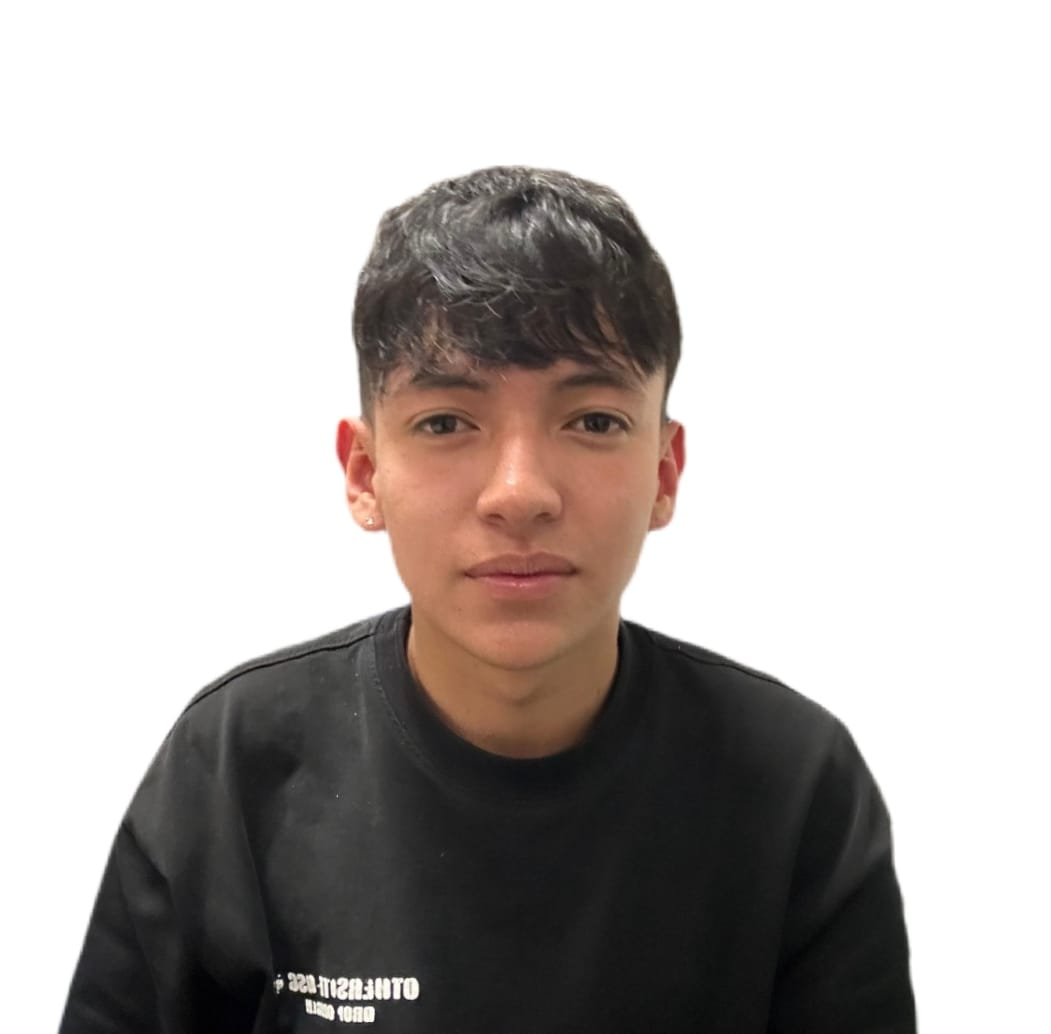
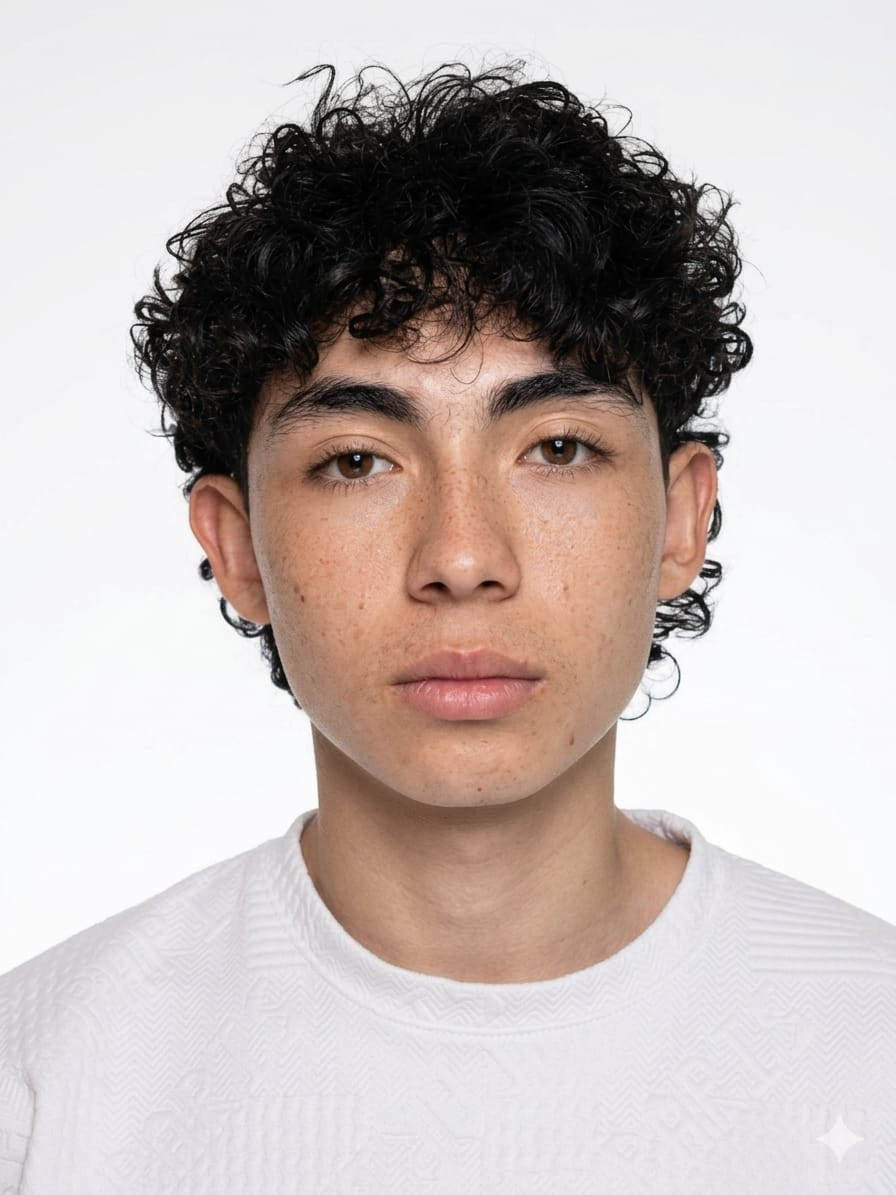
CV - Personal terminado Julian Morales Con Contenido interno cambiado incluyendo img

diff --git a/estudios.html b/estudios.html
@@ -3,14 +3,14 @@
 <head> 
   <meta charset="utf-8"> <!-- Configura la codificación para leer tildes y la letra Ñ -->
   <meta name="viewport" content="width=device-width, initial-scale=1.0"> <!-- Hace que la página sea adaptable a celulares y tablets -->
-  <title>Estudios - Juan Quintero</title> <!-- Texto que aparece en la pestaña superior del navegador -->
+  <title>Estudios - Julián Morales</title> <!-- Texto que aparece en la pestaña superior del navegador -->
   <link href="https://cdn.jsdelivr.net/npm/bootstrap@5.3.3/dist/css/bootstrap.min.css" rel="stylesheet"> <!-- Conecta los estilos modernos de Bootstrap -->
   <link href="https://cdn.jsdelivr.net/npm/bootstrap-icons@1.11.3/font/bootstrap-icons.min.css" rel="stylesheet"> <!-- Conecta la librería de íconos de Bootstrap -->
 </head> 
 <body> 
   <nav class="navbar navbar-expand-lg navbar-dark bg-dark sticky-top"> <!-- Creamos una barra de navegacion oscura fijada en la parte de arriba  -->
     <div class="container"> <!-- Container los usamo para centrar y aliniar los elemntos de nuestra barra -->
-      <a class="navbar-brand" href="index.html">Juan Quintero</a> <!-- nombre que lleva a la página de inicio -->
+      <a class="navbar-brand" href="index.html">Julián Morales</a> <!-- nombre que lleva a la página de inicio -->
       <button class="navbar-toggler" type="button" data-bs-toggle="collapse" data-bs-target="#navMenu"> <!-- Botón desplegable para celulares -->
         <span class="navbar-toggler-icon"></span> <!-- Icono de las tres rayitas del botón móvil -->
       </button> <!-- Cierra el botón del menú -->
@@ -42,16 +42,16 @@
           <p class="card-text mb-4">Formación técnica enfocada en el análisis, diseño, desarrollo e implementación de software bajo estándares de calidad y metodologías ágiles.</p> <!-- Descripción -->
           <hr class="my-3"> <!-- Línea divisoria sencilla entre estudios -->
           <!-- Administración de Empresas Logísticas -->
-          <h4 class="card-title text-primary">Técnico en Administración de Empresas Logísticas</h4> <!-- Título del programa técnico -->
+          <h4 class="card-title text-primary">Técnico en Sistemas Teleinformaticos</h4> <!-- Título del programa técnico -->
           <h6 class="card-subtitle mb-2 text-muted">Servicio Nacional de Aprendizaje (SENA)</h6> <!-- Institución -->
           <p class="text-muted small mb-1"><span class="text-success fw-bold">Finalizado (2025)</span></p> <!-- Estado -->
-          <p class="card-text mb-4">Formación técnica enfocada en la gestión de procesos logísticos, cadena de suministro y distribución eficiente.</p> <!-- Descripción -->
+          <p class="card-text mb-4">Formación técnica enfocada en el mantenimiento de sistemas Basicos Teleinformaticos.</p> <!-- Descripción -->
           <hr class="my-3"> <!-- Línea divisoria sencilla entre estudios -->
           <!-- Bachillerato -->
           <h4 class="card-title text-primary">Bachiller Académico</h4> <!-- Título del nivel educativo -->
-          <h6 class="card-subtitle mb-2 text-muted">Colegio Politécnico - Sogamoso, Boyacá</h6> <!-- Colegio y ubicación -->
+          <h6 class="card-subtitle mb-2 text-muted">Colegio Indalecio Vasquez IEIV - Pesca, Boyacá</h6> <!-- Colegio y ubicación -->
           <p class="text-muted small mb-1"><span class="text-success fw-bold">Finalizado (2025)</span></p> <!-- Estado y año -->
-          <p class="card-text mb-0">Culminación exitosa de los estudios de educación media académica en la ciudad de Sogamoso, Boyacá.</p> <!-- Descripción -->
+          <p class="card-text mb-0">Culminación exitosa de los estudios de educación media académica en el Municipio de Pesca, Boyacá.</p> <!-- Descripción -->
         </div> <!-- Cierra el cuerpo de la tarjeta general -->
       </div> <!-- Cierra la tarjeta general -->
 
@@ -60,8 +60,8 @@
 
   <footer class="bg-dark text-white text-center py-4"> <!-- Pie de página oscuro, centrado y con espacio -->
     <div class="container"> <!-- Contenedor para alinear el texto del pie -->
-      <p class="mb-2">&copy; Juan Quintero — Todos los derechos reservados</p> <!-- Texto de derechos de autor -->
-      <a href="https://wa.me/573001234567" target="_blank" class="text-white fs-5"><i class="bi bi-whatsapp"></i></a> <!-- Enlace al ícono de WhatsApp -->
+      <p class="mb-2">&copy; Julián Morales — Todos los derechos reservados</p> <!-- Texto de derechos de autor -->
+      <a href="https://wa.me/573238013644" target="_blank" class="text-white fs-5"><i class="bi bi-whatsapp"></i></a> <!-- Enlace al ícono de WhatsApp -->
       <a href="#" class="text-white fs-5 ms-3" title="Volver arriba"><i class="bi bi-arrow-up-circle"></i></a>
     </div> <!-- Cierra el contenedor del pie -->
   </footer> <!-- Cierra el pie de página -->

diff --git a/datos-personales.html b/datos-personales.html
@@ -3,7 +3,7 @@
 <head>
   <meta charset="utf-8">
   <meta name="viewport" content="width=device-width, initial-scale=1.0">
-  <title>Datos Personales - Juan Pablo Quintero Laverde</title>
+  <title>Datos Personales - Julián Andrés Morales Cubides</title>
 
   <link href="https://cdn.jsdelivr.net/npm/bootstrap@5.3.3/dist/css/bootstrap.min.css" rel="stylesheet">
   <link href="https://cdn.jsdelivr.net/npm/bootstrap-icons@1.11.3/font/bootstrap-icons.min.css" rel="stylesheet">
@@ -12,7 +12,7 @@
 
   <nav class="navbar navbar-expand-lg navbar-dark bg-dark sticky-top">
     <div class="container">
-      <a class="navbar-brand" href="index.html">Juan Quintero</a>
+      <a class="navbar-brand" href="index.html">Julián Morales</a>
       <button class="navbar-toggler" type="button" data-bs-toggle="collapse" data-bs-target="#navMenu">
         <span class="navbar-toggler-icon"></span>
       </button>
@@ -40,41 +40,41 @@
         <div class="col-md-6">
           <dl class="row mb-0">
             <dt class="col-sm-5">Fecha de nacimiento</dt>
-            <dd class="col-sm-7">14 de diciembre de 2007</dd>
+            <dd class="col-sm-7">06 de octubre de 2008</dd>
             <dt class="col-sm-5">Celular</dt>
-            <dd class="col-sm-7">311 556 6323</dd>
-            <dt class="col-sm-5">Ciudad de residencia</dt>
-            <dd class="col-sm-7">Sogamoso, Boyacá</dd>
+            <dd class="col-sm-7">323 8013644</dd>
+            <dt class="col-sm-5">Municipio de residencia</dt>
+            <dd class="col-sm-7">Pesca, Boyacá</dd>
           </dl>
         </div>
         <div class="col-md-6">
           <dl class="row mb-0">
             <dt class="col-sm-5">Edad</dt>
-            <dd class="col-sm-7">18 años</dd>
+            <dd class="col-sm-7">17 años</dd>
             <dt class="col-sm-5">Ocupación</dt>
             <dd class="col-sm-7">Estudiante</dd>
             <dt class="col-sm-5">Email</dt>
-            <dd class="col-sm-7">quinterojuanpablo628@gmail.com</dd>
+            <dd class="col-sm-7">julianmora1021@gmail.com</dd>
             <dt class="col-sm-5">Documento de identidad</dt>
-            <dd class="col-sm-7">1058354121</dd>
+            <dd class="col-sm-7">1055227430</dd>
           </dl>
         </div>
       </div>
 
       <p class="text-secondary mb-0">
-        Mi nombre es Juan Pablo Quintero Laverde, nací el 14 de diciembre de 2007 en Colombia y
-        actualmente tengo 18 años. Resido en la ciudad de Sogamoso, Boyacá, donde me encuentro
+        Mi nombre es Julián Andrés Morales Cubides, nací el 06 de octubre de 2008 en Colombia y
+        actualmente tengo 17 años. Resido en el Municipio de Pesca, Boyacá,Actualmente en sogamoso Boyaca me encuentro
         cursando mis estudios como estudiante de Análisis y Desarrollo de Software. Para
-        contactarme, puedes escribirme a mi correo electrónico quinterojuanpablo628@gmail.com o
-        llamarme al celular 311 556 6323. Mi número de documento de identidad es 1058354121.
+        contactarme, puedes escribirme a mi correo electrónico julianmora1021@gmail.com o
+        llamarme al celular. 323 801 3644. Mi número de documento de identidad es 1055227430.
       </p>
     </section>
   </main>
 
   <footer class="bg-dark text-white text-center py-4">
     <div class="container">
-      <p class="mb-2">&copy; Juan Quintero — Todos los derechos reservados</p>
-      <a href="https://wa.me/573001234567" target="_blank" class="text-white fs-5"><i class="bi bi-whatsapp"></i></a>
+      <p class="mb-2">&copy; Julián Morales — Todos los derechos reservados</p>
+      <a href="https://wa.me/573238013644" target="_blank" class="text-white fs-5"><i class="bi bi-whatsapp"></i></a>
       <a href="#" class="text-white fs-5 ms-3" title="Volver arriba"><i class="bi bi-arrow-up-circle"></i></a>
     </div>
   </footer>

diff --git a/proyectos.html b/proyectos.html
@@ -3,7 +3,7 @@
 <head>
   <meta charset="utf-8">
   <meta name="viewport" content="width=device-width, initial-scale=1.0">
-  <title>Proyectos - Juan Pablo Quintero Laverde</title>
+  <title>Proyectos - Julián Andrés Morales Cubides</title>
 
   <link href="https://cdn.jsdelivr.net/npm/bootstrap@5.3.3/dist/css/bootstrap.min.css" rel="stylesheet">
   <link href="https://cdn.jsdelivr.net/npm/bootstrap-icons@1.11.3/font/bootstrap-icons.min.css" rel="stylesheet">
@@ -12,7 +12,7 @@
 
   <nav class="navbar navbar-expand-lg navbar-dark bg-dark sticky-top">
     <div class="container">
-      <a class="navbar-brand" href="index.html">Juan Quintero</a>
+      <a class="navbar-brand" href="index.html">Julián Morales</a>
       <button class="navbar-toggler" type="button" data-bs-toggle="collapse" data-bs-target="#navMenu">
         <span class="navbar-toggler-icon"></span>
       </button>
@@ -46,17 +46,17 @@
 
         <div class="carousel-inner">
           <div class="carousel-item active">
-            <img src="img/The plait.jpeg" class="d-block w-100" alt="Proyecto 1">
+            <img src="img/CyberDino.jpeg" class="d-block w-100" alt="Proyecto 1">
             <div class="carousel-caption d-none d-md-block bg-dark bg-opacity-50 rounded">
               <h5>Proyecto 1</h5>
-              <p>Proyecto de grado: torneo de fútbol sala "THE PLAIT".</p>
+              <p>Proyecto de grado: Proyecto sobre Cyberseguridad "CyberDino".</p>
             </div>
           </div>
           <div class="carousel-item">
-            <img src="img/SegurApp.jpeg" class="d-block w-100" alt="Proyecto 2">
+            <img src="img/AgroGEST.jpeg" class="d-block w-100" alt="Proyecto 2">
             <div class="carousel-caption d-none d-md-block bg-dark bg-opacity-50 rounded">
               <h5>Proyecto 2</h5>
-              <p>Proyecto del SENA: SegurApp (Seguridad y Salud en el Trabajo).</p>
+              <p>Proyecto del SENA: AgroGEST Distribuciones( Sistema de control Agricola).</p>
             </div>
           </div>
         </div>
@@ -74,8 +74,8 @@
 
   <footer class="bg-dark text-white text-center py-4">
     <div class="container">
-      <p class="mb-2">&copy; Juan Quintero — Todos los derechos reservados</p>
-      <a href="https://wa.me/573001234567" target="_blank" class="text-white fs-5"><i class="bi bi-whatsapp"></i></a>
+      <p class="mb-2">&copy; Julián Morales — Todos los derechos reservados</p>
+      <a href="https://wa.me/573238013644" target="_blank" class="text-white fs-5"><i class="bi bi-whatsapp"></i></a>
       <a href="#" class="text-white fs-5 ms-3" title="Volver arriba"><i class="bi bi-arrow-up-circle"></i></a>
     </div>
   </footer>

diff --git a/index.html b/index.html
@@ -3,7 +3,7 @@
 <head>
   <meta charset="utf-8">
   <meta name="viewport" content="width=device-width, initial-scale=1.0">
-  <title>Juan Pablo Quintero Laverde - CV</title>
+  <title>Julián Andrés Morales Cubides - CV</title>
 
   
   <link href="https://cdn.jsdelivr.net/npm/bootstrap@5.3.3/dist/css/bootstrap.min.css" rel="stylesheet">
@@ -15,7 +15,7 @@
     de misma manera que configura que colapsa a un tamaño en el que aparece el menu hamburguesa configura color
     y fijacion en la parte superior-->
     <div class="container"><!--Configura el contenedor de la barra de navegacion-->
-      <a class="navbar-brand" href="index.html">Juan Quintero</a><!--la clase navbar-brand define el logo o 
+      <a class="navbar-brand" href="index.html">Julián Andrés Morales Cubides</a><!--la clase navbar-brand define el logo o 
       nombre del sitio web en la barra de navegacion-->
       <button class="navbar-toggler" type="button" data-bs-toggle="collapse" data-bs-target="#navMenu"> <!-- Botón hamburguesa responsivo para telefonos moviles que se despliuega-->
         <span class="navbar-toggler-icon"></span><!-- Icono del botón hamburguesa -->
@@ -37,7 +37,7 @@
 
   <header class="bg-dark text-white text-center py-5"><!-- Encabezado de la página -->
     <div class="container py-4"><!-- Contenedor del encabezado con padding-->
-      <h1 class="display-4 fw-bold mb-3">Juan Pablo Quintero Laverde</h1> <!--Es el título principal que muestra tu nombre en grande, negrita y con espacio debajo-->
+      <h1 class="display-4 fw-bold mb-3">Julián Andrés Morales Cubides</h1> <!--Es el título principal que muestra tu nombre en grande, negrita y con espacio debajo-->
       <p class="lead mb-4">Estudiante de Análisis y Desarrollo de Software</p><!-- Es un párrafo destacado que muestra tu perfil profesional y lo separa del siguiente elemento -->
       <a href="presentacion.html" class="btn btn-primary btn-lg px-4">Sobre mí</a> <!-- Botón para acceder a la sección de presentación -->
     </div>
@@ -56,8 +56,8 @@
 
   <footer class="bg-dark text-white text-center py-4">
     <div class="container">
-      <p class="mb-2">&copy; Juan Quintero — Todos los derechos reservados</p>
-      <a href="https://wa.me/573001234567" target="_blank" class="text-white fs-5"><i class="bi bi-whatsapp"></i></a>
+      <p class="mb-2">&copy; Julián Andrés Morales Cubides — Todos los derechos reservados</p>
+      <a href="https://wa.me/573238013644" target="_blank" class="text-white fs-5"><i class="bi bi-whatsapp"></i></a>
             <a href="#" class="text-white fs-5 ms-3" title="Volver arriba"><i class="bi bi-arrow-up-circle"></i></a>
     </div>
     

diff --git a/contacto.html b/contacto.html
@@ -3,7 +3,7 @@
 <head> 
   <meta charset="utf-8"> 
   <meta name="viewport" content="width=device-width, initial-scale=1.0"> 
-  <title>Contacto - Juan Pablo Quintero Laverde</title> 
+  <title>Contacto - Julián Andrés Morales Cubides</title> 
 
   <link href="https://cdn.jsdelivr.net/npm/bootstrap@5.3.3/dist/css/bootstrap.min.css" rel="stylesheet"> <!-- Carga la hoja de estilos de Bootstrap-->
   <link href="https://cdn.jsdelivr.net/npm/bootstrap-icons@1.11.3/font/bootstrap-icons.min.css" rel="stylesheet"> <!-- Carga la librería de iconos de Bootstrap Icons-->
@@ -13,7 +13,7 @@
 
   <nav class="navbar navbar-expand-lg navbar-dark bg-dark sticky-top"> <!-- Barra de navegación oscura, expandible en pantallas grandes y fija al hacer scroll -->
     <div class="container"> <!-- Contenedor que centra y limita el ancho del contenido -->
-      <a class="navbar-brand" href="index.html">Juan Quintero</a> <!-- Enlace de marca que lleva al inicio -->
+      <a class="navbar-brand" href="index.html">Julián Morales</a> <!-- Enlace de marca que lleva al inicio -->
       <button class="navbar-toggler" type="button" data-bs-toggle="collapse" data-bs-target="#navMenu"> <!-- Botón hamburguesa para menú colapsable en móviles -->
         <span class="navbar-toggler-icon"></span> <!-- Icono del botón hamburguesa -->
       </button> <!-- Cierra el botón hamburguesa -->
@@ -66,8 +66,8 @@
 
   <footer class="bg-dark text-white text-center py-4"> <!-- Pie de página oscuro con texto blanco centrado y padding vertical -->
     <div class="container"> <!-- Contenedor que centra el contenido del pie -->
-      <p class="mb-2">&copy; Juan Quintero — Todos los derechos reservados</p> <!-- Texto de derechos de autor con margen inferior -->
-      <a href="https://wa.me/573001234567" target="_blank" class="text-white fs-5"><i class="bi bi-whatsapp"></i></a> <!-- Enlace a WhatsApp que abre en nueva pestaña con icono de WhatsApp -->
+      <p class="mb-2">&copy; Julián Morales — Todos los derechos reservados</p> <!-- Texto de derechos de autor con margen inferior -->
+      <a href="https://wa.me/573238013644" target="_blank" class="text-white fs-5"><i class="bi bi-whatsapp"></i></a> <!-- Enlace a WhatsApp que abre en nueva pestaña con icono de WhatsApp -->
       <a href="#" class="text-white fs-5 ms-3" title="Volver arriba"><i class="bi bi-arrow-up-circle"></i></a>
     </div> 
   </footer> 

diff --git a/presentacion.html b/presentacion.html
@@ -3,7 +3,7 @@
 <head>
   <meta charset="utf-8">
   <meta name="viewport" content="width=device-width, initial-scale=1.0">
-  <title>Presentación - Juan Pablo Quintero Laverde</title>
+  <title>Presentación - Julián Andrés Morales Cubides</title>
 
   <link href="https://cdn.jsdelivr.net/npm/bootstrap@5.3.3/dist/css/bootstrap.min.css" rel="stylesheet">
   <link href="https://cdn.jsdelivr.net/npm/bootstrap-icons@1.11.3/font/bootstrap-icons.min.css" rel="stylesheet">
@@ -12,7 +12,7 @@
 
   <nav class="navbar navbar-expand-lg navbar-dark bg-dark sticky-top">
     <div class="container">
-      <a class="navbar-brand" href="index.html">Juan Quintero</a>
+      <a class="navbar-brand" href="index.html">Julián Morales</a>
       <button class="navbar-toggler" type="button" data-bs-toggle="collapse" data-bs-target="#navMenu">
         <span class="navbar-toggler-icon"></span>
       </button>
@@ -64,8 +64,8 @@
 
   <footer class="bg-dark text-white text-center py-4">
     <div class="container">
-      <p class="mb-2">&copy; Juan Quintero — Todos los derechos reservados</p>
-      <a href="https://wa.me/573001234567" target="_blank" class="text-white fs-5"><i class="bi bi-whatsapp"></i></a>
+      <p class="mb-2">&copy; Julián Morales — Todos los derechos reservados</p>
+      <a href="https://wa.me/573238013644" target="_blank" class="text-white fs-5"><i class="bi bi-whatsapp"></i></a>
         <a href="#" class="text-white fs-5 ms-3" title="Volver arriba"><i class="bi bi-arrow-up-circle"></i></a>
     </div>
   </footer>

diff --git a/habilidades.html b/habilidades.html
@@ -4,7 +4,7 @@
 <head>
     <meta charset="utf-8">
     <meta name="viewport" content="width=device-width, initial-scale=1.0">
-    <title>Habilidades - Juan Pablo Quintero Laverde</title>
+    <title>Habilidades - Julián Andrés Morales Cubides</title>
     <link href="https://cdn.jsdelivr.net/npm/bootstrap@5.3.3/dist/css/bootstrap.min.css" rel="stylesheet">
     <link href="https://cdn.jsdelivr.net/npm/bootstrap-icons@1.11.3/font/bootstrap-icons.min.css" rel="stylesheet">
 </head>
@@ -16,7 +16,7 @@
         <div class="container">
             <!-- centra y limita el ancho del contenido -->
 
-            <a class="navbar-brand" href="index.html">Juan Quintero</a>
+            <a class="navbar-brand" href="index.html">Julián Morales</a>
             <!-- navbar-brand: estilo para el nombre/logo -->
 
             <!-- Botón que aparece en pantallas pequeñas -->
@@ -164,11 +164,11 @@
         <div class="container">
 
             <p class="mb-2">
-                &copy; Juan Quintero — Todos los derechos reservados
+                &copy; Julián Morales — Todos los derechos reservados
             </p>
 
             <!-- Enlace a WhatsApp -->
-            <a href="https://wa.me/573001234567" target="_blank" class="text-white fs-5"><i class="bi bi-whatsapp"></i>
+            <a href="https://wa.me/573238013644" target="_blank" class="text-white fs-5"><i class="bi bi-whatsapp"></i>
                 <!-- bi-whatsapp: icono de WhatsApp -->
             </a>
 
